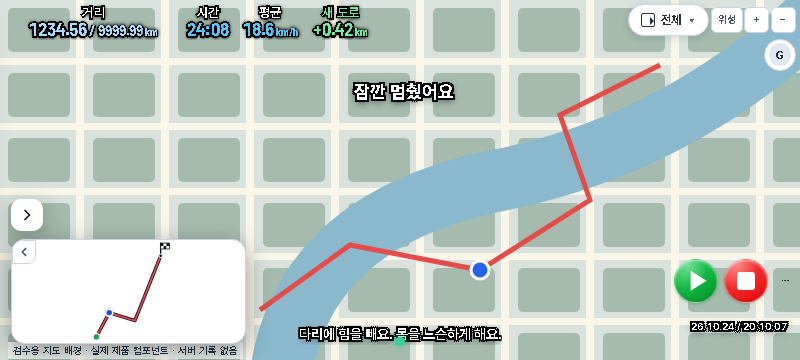
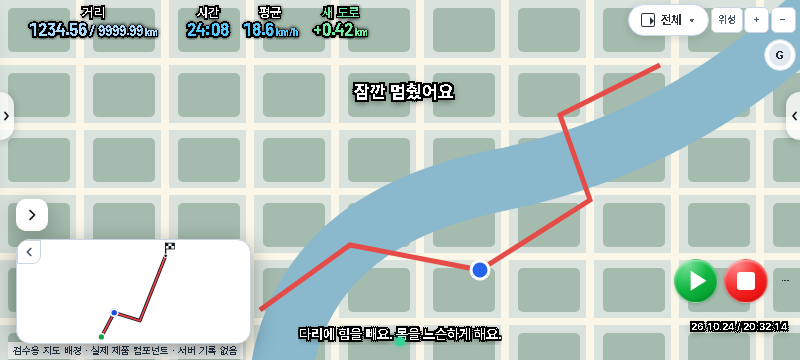
feat(ui): show white translucent edge tabs for the side menus
Chief: the edge-swipe menus were invisible. Left (menu) and right (map
view) now have a 14x48 white translucent half-round tab below the HUD
metrics; tap or drag from it opens the panel, edge swipe still works.
The bottom-left stack moves to 16px so the tab never overlaps it.

diff --git a/apps/web/e2e/ui-800x360.spec.ts b/apps/web/e2e/ui-800x360.spec.ts
@@ -214,6 +214,57 @@ test('좌우 에지 띠는 20px·화면0에 붙고 안쪽 드래그로만 열린
   }
 });
 
+// Chief 고정14(2026-10-24): 측면 메뉴는 보이는 흰 반투명 반원 탭으로 연다 — 누르거나 탭에서 끌어서.
+test('Chief 고정14 — 좌우 흰 반투명 반원 탭: 계기판 아래 빈 자리, 누르면·끌면 열린다',async({page})=>{
+  for(const size of [{width:800,height:360},{width:667,height:300},{width:844,height:390}]){
+    await page.setViewportSize(size);
+    for(const [state,expand] of [['ready',false],['riding',true],['paused',true]] as const){
+      await page.goto(`${preview}?state=${state}&waypoints=3&long`);
+      if(expand) await page.getByRole('button',{name:'경로 패널 펼치기'}).click();
+      const g=await page.evaluate(()=>{
+        const boxes=(sel:string)=>[...document.querySelectorAll(sel)].map(e=>e.getBoundingClientRect()).filter(r=>r.width>0&&r.height>0);
+        const tabs=['left','right'].map(side=>{
+          const tab=document.querySelector(`.edge-panel-tab--${side}`)!;
+          const knob=tab.querySelector('.edge-panel-tab__knob')!;
+          const t=tab.getBoundingClientRect(),k=knob.getBoundingClientRect();
+          const hit=document.elementFromPoint(k.x+k.width/2,k.y+k.height/2);
+          return {side,t:t.toJSON(),k:k.toJSON(),bg:getComputedStyle(knob).backgroundColor,hitOk:Boolean(hit?.closest(`.edge-panel-tab--${side}`))};
+        });
+        const others=boxes('.map-hud__tl,.route-dock__card,.route-minimap,.map-hud__tr,.ride-control-bar,.hud-ride-map-controls,.camera-view-menu__trigger,.hud-account').map(r=>r.toJSON());
+        return {tabs,others,vw:innerWidth,vh:innerHeight};
+      });
+      for(const tab of g.tabs){
+        const label=`${size.width}×${size.height} ${state} ${tab.side}`;
+        expect(tab.k.width,label).toBeCloseTo(14,0);
+        expect(tab.k.height,label).toBeCloseTo(48,0);
+        expect(tab.t.width*tab.t.height,label).toBeGreaterThanOrEqual(28*64-1);
+        expect(tab.bg,label).toBe('rgba(255, 255, 255, 0.78)');
+        expect(tab.hitOk,label).toBe(true);
+        if(tab.side==='left') expect(tab.k.x,label).toBeLessThanOrEqual(0.5);
+        else expect(tab.k.x+tab.k.width,label).toBeGreaterThanOrEqual(g.vw-0.5);
+        for(const o of g.others){
+          const overlap=tab.k.x<o.right&&tab.k.right>o.left&&tab.k.y<o.bottom&&tab.k.bottom>o.top;
+          expect(overlap,`${label} 탭이 다른 조작부·카드와 겹치지 않는다`).toBe(false);
+        }
+      }
+    }
+  }
+  await page.setViewportSize({width:800,height:360});
+  for(const side of ['left','right'] as const){
+    const dialog=page.getByRole('dialog',{name:side==='left'?'메뉴':'맵 뷰',exact:true});
+    await page.goto(`${preview}?state=ready`);
+    await page.getByRole('button',{name:side==='left'?'메뉴 열기':'맵 뷰 열기',exact:true}).click();
+    await expect(dialog,`${side} 누르면 열림`).toBeVisible();
+    await page.goto(`${preview}?state=ready`);
+    const k=(await page.locator(`.edge-panel-tab--${side} .edge-panel-tab__knob`).boundingBox())!;
+    const x=k.x+k.width/2,y=k.y+k.height/2,dir=side==='left'?1:-1;
+    await page.mouse.move(x,y);await page.mouse.down();
+    await page.mouse.move(x+dir*120,y,{steps:10});await page.mouse.up();
+    await expect(dialog,`${side} 탭에서 끌면 열림`).toBeVisible();
+    await expect(page.locator(`.edge-panel-tab--${side}`),'열리면 그 쪽 탭은 사라진다').toHaveCount(0);
+  }
+});
+
 test('포커스 대안·짧은/반대 드래그 취소가 동작한다',async({page})=>{
   await page.goto(`${preview}?state=ready`);
   await page.getByRole('button',{name:'맵 뷰 설정',exact:true}).focus();

diff --git a/apps/web/src/components/ui/EdgePanelHandle.css b/apps/web/src/components/ui/EdgePanelHandle.css
@@ -24,6 +24,56 @@
   left: auto;
 }
 
+/*
+ * 보이는 탭 — 2026-10-24 Chief 「반원 탭, 흰 반투명」. 위성·줌 버튼과 같은 흰색 계열.
+ * 보이는 반원 14×48px, 누르는 영역 28×64px(바깥은 투명). 자리는 계기판 바로 아래
+ * (위에서 84px) — 대기·주행 모두 왼쪽 아래 주소 카드·미니맵과 오른쪽 위 조작부 사이의 빈 곳.
+ * z-index 5(HUD 와 같은 층) — 메뉴(50)·맵 뷰(54)·모달 아래.
+ */
+.edge-panel-tab {
+  position: fixed;
+  z-index: 5;
+  top: calc(env(safe-area-inset-top, 0px) + 84px);
+  width: 28px;
+  height: 64px;
+  padding: 0;
+  margin: 0;
+  border: 0;
+  background: transparent;
+  display: flex;
+  align-items: center;
+  cursor: pointer;
+  touch-action: none;
+  -webkit-tap-highlight-color: transparent;
+}
+.edge-panel-tab--left {
+  left: env(safe-area-inset-left, 0px);
+  justify-content: flex-start;
+}
+.edge-panel-tab--right {
+  right: env(safe-area-inset-right, 0px);
+  justify-content: flex-end;
+}
+.edge-panel-tab__knob {
+  width: 14px;
+  height: 48px;
+  box-sizing: border-box;
+  display: inline-flex;
+  align-items: center;
+  justify-content: center;
+  background: rgba(255, 255, 255, 0.78);
+  color: #121417;
+  box-shadow: 0 2px 8px rgba(0, 0, 0, 0.22);
+}
+.edge-panel-tab--left .edge-panel-tab__knob { border-radius: 0 24px 24px 0; padding-right: 2px; }
+.edge-panel-tab--right .edge-panel-tab__knob { border-radius: 24px 0 0 24px; padding-left: 2px; }
+.edge-panel-tab:active .edge-panel-tab__knob { background: rgba(255, 255, 255, 0.95); }
+@media (hover: hover) {
+  .edge-panel-tab:hover .edge-panel-tab__knob { background: rgba(255, 255, 255, 0.92); }
+}
+.edge-panel-tab:focus-visible { outline: none; }
+.edge-panel-tab:focus-visible .edge-panel-tab__knob { outline: 2px solid #2457d6; outline-offset: 1px; }
+
 @media (prefers-reduced-motion: reduce) {
   .edge-panel-handle {
     transition: none;

diff --git a/apps/web/src/components/ui/EdgePanelHandle.tsx b/apps/web/src/components/ui/EdgePanelHandle.tsx
@@ -15,8 +15,9 @@ export type EdgePanelHandleProps = {
 };
 
 /**
- * 비노출 에지 제스처 — document capture 로 시작 좌표만 판별한다.
- * pointer-events 레이어는 두지 않아 Mapbox 컨트롤·중앙 지도를 가리지 않는다.
+ * 에지 제스처 — document capture 로 시작 좌표만 판별한다(띠 표식은 hit-test 없음).
+ * 2026-10-24 Chief: 보이지 않으니 불편하다 → 계기판 바로 아래에 흰 반투명 반원 탭을 둔다.
+ * 탭을 누르면 열리고, 탭에서 시작해 끌어도 지금처럼 손가락을 따라 열린다.
  */
 export function EdgePanelHandle(props: EdgePanelHandleProps) {
   const { edge, open, panelId, label, onOpen, onClose, onDragProgress } = props;
@@ -41,13 +42,29 @@ export function EdgePanelHandle(props: EdgePanelHandleProps) {
   if (open) return null;
 
   return (
-    <div
-      ref={markerRef}
-      className={`edge-panel-handle edge-panel-handle--${edge}`}
-      role="presentation"
-      aria-hidden="true"
-      data-edge-panel={panelId}
-      data-edge-gesture-label={label}
-    />
+    <>
+      <div
+        ref={markerRef}
+        className={`edge-panel-handle edge-panel-handle--${edge}`}
+        role="presentation"
+        aria-hidden="true"
+        data-edge-panel={panelId}
+        data-edge-gesture-label={label}
+      />
+      <button
+        type="button"
+        className={`edge-panel-tab edge-panel-tab--${edge}`}
+        aria-label={label}
+        aria-controls={panelId}
+        aria-expanded={false}
+        onClick={onOpen}
+      >
+        <span className="edge-panel-tab__knob" aria-hidden>
+          <svg width="7" height="10" viewBox="0 0 7 10" fill="none" stroke="currentColor" strokeWidth={1.7} strokeLinecap="round" strokeLinejoin="round">
+            <path d={edge === "left" ? "M2 1.5L5 5L2 8.5" : "M5 1.5L2 5L5 8.5"} />
+          </svg>
+        </span>
+      </button>
+    </>
   );
 }

diff --git a/apps/web/src/components/ui/edgePanelDocumentGesture.ts b/apps/web/src/components/ui/edgePanelDocumentGesture.ts
@@ -48,9 +48,17 @@ function inVerticalBand(clientY: number, marker: HTMLElement | null): boolean {
   return clientY >= r.top && clientY <= r.bottom;
 }
 
+/** 그 가장자리의 보이는 탭(28px) 위인가 — 띠(20px)보다 넓어도 탭에서 시작한 끌기는 받는다. */
+function onEdgeTab(edge: EdgeSide, clientX: number, clientY: number): boolean {
+  const hit = document.elementFromPoint(clientX, clientY);
+  return Boolean(hit?.closest(`.edge-panel-tab--${edge}`));
+}
+
 function shouldYieldAt(clientX: number, clientY: number): boolean {
   const hit = document.elementFromPoint(clientX, clientY);
   if (!hit) return true;
+  // 탭은 버튼이지만 끌기도 받는다 — 움직이지 않고 떼면 버튼 click 이 그대로 열어 준다.
+  if (hit.closest(".edge-panel-tab")) return false;
   return Boolean(hit.closest(YIELD_SELECTOR));
 }
 
@@ -177,7 +185,7 @@ function tryStartEdgeGesture(
   }
   if (e.pointerType === "mouse" && e.button !== 0) return false;
   if (!e.isPrimary) return false;
-  if (!inHorizontalBand(edge, e.clientX)) return false;
+  if (!inHorizontalBand(edge, e.clientX) && !onEdgeTab(edge, e.clientX, e.clientY)) return false;
   if (!inVerticalBand(e.clientY, marker)) return false;
   if (shouldYieldAt(e.clientX, e.clientY)) return false;
 

diff --git a/apps/web/src/features/map-overlays/MapBottomLeftStack.css b/apps/web/src/features/map-overlays/MapBottomLeftStack.css
@@ -8,7 +8,9 @@
 .map-bottom-left-stack {
   --map-bl-pad: clamp(0.45rem, 1.4vw, 0.85rem);
   position: absolute;
-  left: max(var(--map-bl-pad), env(safe-area-inset-left, 0px));
+  /* 16px: 왼쪽 가장자리 반원 탭(14px, 2026-10-24 Chief)이 주소 카드·미니맵 옆 틈에 들어가
+   * 카드 높이가 어떻든(경유 3개 펼침 등) 겹치지 않는다. */
+  left: max(var(--map-bl-pad), 16px, calc(env(safe-area-inset-left, 0px) + 16px));
   bottom: calc(
     max(var(--map-bl-pad), env(safe-area-inset-bottom, 0px)) + var(--mapbox-logo-clearance, 2.875rem)
   );

diff --git a/apps/web/src/components/route-dock/RouteDock.css b/apps/web/src/components/route-dock/RouteDock.css
@@ -3,7 +3,7 @@
 .route-dock-anchor {
   --route-dock-pad: clamp(.45rem, 1.4vw, .85rem);
   position: absolute;
-  left: max(8px, env(safe-area-inset-left, 0px));
+  left: max(16px, calc(env(safe-area-inset-left, 0px) + 16px)); /* 왼쪽 반원 탭 자리(MapBottomLeftStack 과 같음) */
   bottom: calc(max(var(--route-dock-pad), env(safe-area-inset-bottom, 0px)) + var(--mapbox-logo-clearance, 2.875rem));
   width: min(29.4vw, calc(100vw - 16px));
   z-index: 6;

diff --git a/apps/web/src/components/ride/OfficialCourseListModal.css b/apps/web/src/components/ride/OfficialCourseListModal.css
@@ -547,7 +547,7 @@
 }
 
 /* 경로 목록 뒤의 조작부가 검색·출처 버튼과 겹치지 않게 한다. 지도와 저작권은 유지한다. */
-body:has(.oc-modal--map) :is(.map-hud, .route-dock-anchor, .ride-control-bar, .map-bottom-left-stack, .edge-panel-handle) {
+body:has(.oc-modal--map) :is(.map-hud, .route-dock-anchor, .ride-control-bar, .map-bottom-left-stack, .edge-panel-handle, .edge-panel-tab) {
   visibility: hidden;
 }
 

diff --git a/document/ops/20261023-ui-redesign/48-result-edge-tab.md b/document/ops/20261023-ui-redesign/48-result-edge-tab.md
@@ -1,0 +1,38 @@
+# 지시·결과 48 — 측면 메뉴 흰 반투명 반원 탭
+
+2026-10-24 Chief 지시 · **시안·구현·감리 Claude Code(Supervisor 직접)** · 상태 LOCAL_VERIFIED
+
+> Chief: 「슬라이드 메뉴가 좌우 측면에서 안쪽으로 슬라이딩 터치를 할 때 나타나는데 이 메뉴가 보이지 않으니까 불편하다. … 반투명 반원의 형태를 고정해서 보여줄까?」 → Supervisor 권고(보이는 진입점 + 끌기 지름길) → 「반원 탭으로 가자. 시안 먼저」 → 시안 A(어두운)/B(흰) 중 **「흰 반투명」**.
+>
+> 시안: https://claude.ai/artifact/Gx3hf9Tbdm25EpiT4SQXZH (비공개). 10-21 결정 「흰색 에지 핸들 제거·비노출 가장자리 드래그」를 일부 바꾼다 → 결정 로그에 한 줄.
+
+## 바꾼 것
+
+| 파일 | 내용 |
+|---|---|
+| `apps/web/src/components/ui/EdgePanelHandle.tsx` | 기존 비노출 띠 표식 옆에 보이는 `<button class="edge-panel-tab">`(이름 「메뉴 열기」·「맵 뷰 열기」, `aria-controls`). 누르면 `onOpen`. 판이 열리면(`open`) 표식·탭 모두 사라짐 |
+| `apps/web/src/components/ui/EdgePanelHandle.css` | 탭: 누르는 영역 28×64px, 보이는 반원 14×48px `rgba(255,255,255,0.78)`·그림자·짙은 › ‹, 위에서 84px, z-index 5(HUD 층, 메뉴 50·맵 뷰 54 아래). hover 는 `@media (hover: hover)` 안 |
+| `apps/web/src/components/ui/edgePanelDocumentGesture.ts` | 탭 위에서 시작한 끌기도 받음 — 탭은 양보(yield) 대상에서 빼고, 탭이 띠(20px)보다 넓은 부분에서도 시작 허용. 움직이지 않고 떼면 버튼 click 이 열어 준다 |
+| `apps/web/src/features/map-overlays/MapBottomLeftStack.css`, `apps/web/src/components/route-dock/RouteDock.css` | 왼쪽 아래 카드 묶음(주소 카드·미니맵) 왼쪽 여백 약 9~11px → **16px**. 경유 3개를 펼친 주행 화면에서는 주소 카드 위끝이 탭 높이(84~132px)까지 올라와(800×360 101px, 667×300 60px) 겹쳤다 — 탭이 카드 옆 틈에 들어가게 해 카드 높이와 무관하게 겹치지 않음 |
+| `apps/web/src/components/ride/OfficialCourseListModal.css` | 경로 목록 모달 때 조작부 숨김 목록에 탭 추가 |
+| `apps/web/e2e/ui-800x360.spec.ts` | 잠금 시험 「Chief 고정14」: 800×360·667×300·844×390 × 대기·주행(경유 3·펼침)·일시정지에서 좌우 탭 반원 14×48·누르는 영역 ≥28×64·흰 0.78·가장자리에 붙음·중심을 누르면 탭, 계기판·주소 카드·미니맵·오른쪽 조작부·주행바와 겹치지 않음. 누르면 열림, 탭에서 끌면 열림, 열리면 그 탭 사라짐 |
+| `document/reference/product/261024-RTW-Chief-지정-디자인-고정.md` | 14번 추가 |
+| `document/260707-RTW-결정-로그.md` | 한 줄 추가 |
+
+기존 시험(「좌우 에지 띠는 20px·화면0에 붙고 안쪽 드래그로만 열린다」, 「짧은/반대 드래그 취소」, 「중앙 지도는 가리지 않는다」)은 그대로 통과 — 띠 가운데 높이(155px)에서는 지금처럼 끌어야만 열린다.
+
+## 검증 (실행 폴더 `C:\20.HDev\boxcycle\apps\web`)
+
+| 명령 | 결과 |
+|---|---|
+| `npx tsc -b --noEmit` | PASS |
+| 변경 파일 `npx eslint` | 오류 0 |
+| 프리뷰 5020 → `npx playwright test ui-800x360 -g "고정14\|에지\|드래그"` | 4/4 PASS |
+| 프리뷰 5020 → `npx playwright test ui-800x360 address-minimap-width ui-redesign-batch1.spec.ts ui-redesign-batch2.spec.ts --workers=1 --retries=0` | 31/31 PASS (`evidence/edge-tab/ui.log`) |
+| 에뮬레이터 실앱 5017 → `test ride-entry route-dock-riding-content ui-edge-live --workers=1 --retries=0` | ride-entry 7 + route-dock 1 = **8 PASS**, `ui-edge-live` **1 FAIL** (`evidence/edge-tab/live.log`, `live-edge.log`) |
+
+**`ui-edge-live` 실패 — 오래된 시험(10-21)의 기대값, 이번 변경 전부터 실패 상태로 판단:** 실제 지도에서 왼쪽 가장자리 끌기로 메뉴 열기·입문 경로 고르기까지는 통과했고, 그 뒤 「대기 주소 카드 폭 ≤220px」(76줄)에서 실패(235px). 이 기대값은 오늘 이전에도 맞지 않았다(10-24 오전 운영·HEAD 대기 카드 250px). 같은 시험의 다음 단언 「주행바 높이 ≤36」(81줄)도 고정 목록 1번(녹색 원형 44px)과 어긋나고, 이어지는 흐름(주행 시작 직후 「경로 패널 접기」)은 고정 목록 11번(주행 시작 시 접힘)과 어긋난다. 고정 목록에 맞춰 이 시험을 다시 쓰는 일은 별도 작업으로 남긴다(이번에 고치지 않음).
+
+## 캡처 `C:\20.HDev\boxcycle\document\ops\20261023-ui-redesign\evidence\edge-tab\`
+
+`ready-800x360.png`, `left-tab-zoom.png`, `right-tab-zoom.png`, `riding-wp3-expanded-800x360.png`, `riding-wp3-expanded-667x300.png`, `paused-800x360.png`, `ui.log`, `live.log`, `live-edge.log`

diff --git a/document/ops/HANDOFF.md b/document/ops/HANDOFF.md
@@ -5,7 +5,7 @@
 | 담당 | **Claude Code (2026-10-24 13:2x KST 인수, Codex→Claude Code)** |
 | 갱신 | 2026-10-24 16:1x KST — 지시44(주소 카드 ⇅·센서 버튼 제안 A, Supervisor 직접 구현) LOCAL_VERIFIED·커밋. 이전: 2026-10-24 15:0x KST — 지시39·41(주행 시작 주소창 접힘 › 버튼)·42(지도 탭 `reading 'x'` 오류) LOCAL_VERIFIED, 커밋·푸시 후 `tmp/deploy35` 재빌드. **호스팅 배포는 자동 권한 검사가 막아 Chief 실행 대기** |
 | 브랜치 | `main2` |
-| HEAD / 원격 | `4cde7ae0` (= origin/main2) |
+| HEAD / 원격 | `356fce0d` (= origin/main2) |
 | 마지막 배포 | 10-24 10:13 KST Hosting `3c3ba02c` 빌드 `index-BDb2hU8r.js`·`index-Dx13Hjt3.css`. 운영 자산5개 SHA256 일치. 함수·Rules 변경 없음 |
 
 ## 먼저 읽을 것
@@ -25,11 +25,12 @@
 
 ## 다음 한 걸음
 
-0. **지시35 커밋·푸시 완료, 배포 대기.** 묶음3 미커밋을 피하려고 커밋 상태를 `tmp/deploy35`(gitignore)에 복제해 빌드 — **10-24 18시 `4cde7ae0` 로 재빌드**(`index-COXGDagv.js`·`index-uvhmBw4G.css`, 지시35·39·41·42·44·45·46 포함, 묶음3 제외). 배포 명령은 Chief 실행: `cd C:\20.HDev\boxcycle\tmp\deploy35` → `npx firebase deploy --only hosting`. 배포 후 운영 번들 해시 대조, `tmp/deploy35` 삭제.
+0. **지시35 커밋·푸시 완료, 배포 대기.** 묶음3 미커밋을 피하려고 커밋 상태를 `tmp/deploy35`(gitignore)에 복제해 빌드 — **10-24 19시 `356fce0d` 로 재빌드**(`index-Bxu3PkRd.js`·`index-ChOGXwjk.css`, 지시35·39·41·42·44~47 포함, 묶음3 제외). 배포 명령은 Chief 실행: `cd C:\20.HDev\boxcycle\tmp\deploy35` → `npx firebase deploy --only hosting`. 배포 후 운영 번들 해시 대조, `tmp/deploy35` 삭제.
+0-00000. **지시48(측면 메뉴 흰 반원 탭) 완료** — [결과48](20261023-ui-redesign/48-result-edge-tab.md). 남은 일: `e2e/ui-edge-live.spec.ts` 를 고정 목록 1·11·12에 맞게 다시 쓰기(10-21 기대값이라 실패).
 0-0000. **지시47(기호 S·1·2·3·E, Start·End) 완료** — [결과47](20261023-ui-redesign/47-result-dock-badges-start-end.md). 무관 FAIL 2(`distance-direction-attention` 29줄, `route-ride-controls` idle 주소 카드) 묶음3 감리 때 확인.
 0-000. **지시46(대기 카드 센서·접기 맨 위 줄·폭=주행 중·주행 경유 들여쓰기) 완료** — [결과46](20261023-ui-redesign/46-result-dock-head-row.md). 보고 때 작업 agent 명시(Chief 10-24).
 0-00. **지시45(⇅ 목록 앞쪽) 완료** — [결과45](20261023-ui-redesign/45-result-dock-swap-front.md). 실행자: OpenCode 소진 → Cursor(Chief 10-24). Grok Bot 은 데스크톱 앱(CLI 없음)이라 못 씀.
-0-0. **지시44 완료** — [결과44](20261023-ui-redesign/44-result-dock-buttons-proposal-a.md). Chief 질문 대기: 측면 메뉴(왼쪽 MENU·오른쪽 맵 뷰)가 보이지 않는 가장자리 드래그뿐이라 불편 → Chief 「반원 탭으로 가자, 시안 먼저」 → 시안 https://claude.ai/artifact/Gx3hf9Tbdm25EpiT4SQXZH (A 어두운 반투명 추천 / B 흰 반투명, 14×48 보이는 탭·28×64 누르는 영역·위에서 84px). Chief 선택 후 Supervisor 직접 구현(10-21 「비노출 드래그」 결정 일부 변경 → 결정 로그·고정 목록 13).
+0-0. **지시44 완료** — [결과44](20261023-ui-redesign/44-result-dock-buttons-proposal-a.md). Chief 질문 대기: 측면 메뉴(왼쪽 MENU·오른쪽 맵 뷰)가 보이지 않는 가장자리 드래그뿐이라 불편 → Chief 「반원 탭으로 가자, 시안 먼저」 → **「흰 반투명」 확정·구현(결과48)** ← 시안 https://claude.ai/artifact/Gx3hf9Tbdm25EpiT4SQXZH (A 어두운 반투명 추천 / B 흰 반투명, 14×48 보이는 탭·28×64 누르는 영역·위에서 84px). Chief 선택 후 Supervisor 직접 구현(10-21 「비노출 드래그」 결정 일부 변경 → 결정 로그·고정 목록 13).
 0-1. **지시39 로컬 완료** — [결과40](20261023-ui-redesign/40-result-riding-address-dock-collapse.md). 다음: Nemotron 독립 감리 → Supervisor `npm run test:e2e:route-dock`(에뮬) → Chief 화면·커밋·배포 판단.
 
 1. 지시24·26 **완료**: 커밋·푸시·Hosting 배포·운영5자산 SHA256 대조 PASS. Chief 10-24 「카드 삭제하면 푸시 배포도 다시」 승인으로 수행.

diff --git a/document/reference/product/261024-RTW-Chief-지정-디자인-고정.md b/document/reference/product/261024-RTW-Chief-지정-디자인-고정.md
@@ -29,6 +29,7 @@
 | 11 | 2026-10-24 | 주행·일시정지 중 출발·도착 주소창 | **숨기지 않고 접는다.** 주행을 시작하면 주소 카드가 **접힌 상태**(› 펼치기 버튼만 보임)가 되고, 누르면 미니맵 바로 위에 펼친 미니맵과 좌우 끝이 같은 흰 카드로 펼쳐진다. 주행 중엔 ✕·⇅ 없음(잠금). 대기 화면 카드는 펼침·**폭 = 주행 중 펼친 카드(미니맵)와 같은 29.4vw**(10-24 Chief, 종전 250px 대체). 경유 줄은 대기·주행 모두 들여 씀 | Chief 10-22(미니맵 폭 맞춤)·10-24 「주행 중 주소창이 안 보인다」「숨기는 게 아니라 접는다로 해야 한다」, [지시35](../../ops/20261023-ui-redesign/35-task-riding-address-dock.md)·[지시39](../../ops/20261023-ui-redesign/39-task-riding-address-dock-collapse.md) | `e2e/ui-800x360.spec.ts` 「Chief 고정 — 목록 11」, `e2e/address-minimap-width.spec.ts`, `e2e/route-dock-riding-content.spec.ts` |
 | 12 | 2026-10-24 | 주소 카드 안 버튼(⇅·센서·✕·‹›) | **시안 04 그대로(제안 A).** ⇅ = 회색 원(`#f2f3f5`) 안 위·아래 화살표 선 아이콘, **자리는 주소 목록 앞쪽 — 점 열 위·목록 세로 가운데(출발·도착 점 사이), 보이는 원 20px, 경유 줄은 들여 씀**(10-24 Chief 스케치, [결과45](../../ops/20261023-ui-redesign/45-result-dock-swap-front.md)). 센서 = 흰 알약 30px·1px `#c9d6ee` 테두리·7px 점·12px 굵은 글자(연결 시 초록 점, 안내는 accent 파랑 깜빡임). ✕ ‹ › = 선 1.7 아이콘, 글자 기호 금지. **대기 화면: 센서(왼쪽)·접기(오른쪽)가 카드 맨 위 한 줄, 접으면 그 한 줄만 남음. 주소 ✕ 는 오른쪽 끝**(10-24 Chief, [결과46](../../ops/20261023-ui-redesign/46-result-dock-head-row.md)) | Chief 10-24 「디자인 컨셉과 동떨어진 스타일」→ 시안 비교 후 「제안 A 대로」, [결과44](../../ops/20261023-ui-redesign/44-result-dock-buttons-proposal-a.md) | `e2e/ui-800x360.spec.ts` 「Chief 고정12」 |
 | 13 | 2026-10-24 | 경로 지점 이름·기호(주소 카드·지점 팝업) | **영어로 통일, 지도 핀과 같은 기호.** 주소 카드 줄 = 기호 + 주소(「출발·경유·도착」 이름표 없음). 기호 = 16px 원 S(초록 `#16a34a`) · 1 2 3(주황) · E(빨강 `#dc2626`), 지도 핀과 같은 색·글자. ⇅ 는 기호 열 위·S·E 사이(보이는 원 14px), 줄 30px. 지점 팝업 버튼 「Start · +WP · End」, 탭 「Start·End」(화면 읽기 이름은 한국어) | Chief 10-24 「출발·도착 대신 Start·End, 영어로 통일」「기호들을 통일되게」→ 시안 비교 후 「A」, [결과47](../../ops/20261023-ui-redesign/47-result-dock-badges-start-end.md) | `e2e/ui-800x360.spec.ts` 「Chief 고정12 — ⇅ …기호…」, `e2e/route-media-controls.spec.ts` |
+| 14 | 2026-10-24 | 측면 메뉴 진입(왼쪽 MENU·오른쪽 맵 뷰) | **좌우 가장자리 흰 반투명 반원 탭.** 보이는 반원 14×48px(`rgba(255,255,255,0.78)`·짙은 › ‹), 누르는 영역 28×64px, 계기판 바로 아래(위에서 84px). 누르면 열림, 탭이나 가장자리에서 끌면 손가락 따라 열림, 판이 열리면 그 탭은 숨김. 왼쪽 아래 카드 묶음은 탭 자리만큼 16px 띄움 | Chief 10-24 「메뉴가 보이지 않으니 불편」→ 반원 탭 시안 → 「흰 반투명」, [결과48](../../ops/20261023-ui-redesign/48-result-edge-tab.md) | `e2e/ui-800x360.spec.ts` 「Chief 고정14」 |
 
 ## UI·UX 개선 목적 — 2026-10-24 Chief
 

diff --git a/document/260707-RTW-결정-로그.md b/document/260707-RTW-결정-로그.md
@@ -14,6 +14,7 @@
 
 | 날짜 | 태그 | 결정 | 이유 (한 줄) | 근거·상세 |
 |---|---|---|---|---|
+| 2026-10-24 | `[UI]` `[Map]` | 측면 메뉴(왼쪽 MENU·오른쪽 맵 뷰)에 계기판 아래 흰 반투명 반원 탭(14×48, 누르는 영역 28×64)을 둔다. 누르거나 탭에서 끌면 열림, 가장자리 끌기 유지. 10-21 「비노출 가장자리 드래그」 일부 변경 | Chief: 메뉴가 보이지 않아 불편, 일반 방식은 보이는 진입점 + 끌기 지름길. 시안 A/B 중 B(흰 반투명) | [결과48](ops/20261023-ui-redesign/48-result-edge-tab.md) |
 | 2026-10-24 | `[UI]` `[Product]` | 주행 기록은 계정 패널 안 현재 인라인 스타일로 확정. panel 비교용 연결 제거. 후속 UI 작업은 낮은 품질의 UI·UX 개선을 목표로 진행 | Chief 비교 후 명시 결정. 기존 기록별 행동과 계정 맥락 보존 | [지시26](ops/20261023-ui-redesign/26-task-inline-history-finalize.md) |
 | 2026-10-24 | `[UI]` `[Docs]` | Chief 가 직접 지시한 화면은 [고정 목록](reference/product/261024-RTW-Chief-지정-디자인-고정.md)에 올리고 시안·규칙·수퍼바이저 판단보다 우선. 주행 시작 녹색 원형 아이콘·일시정지 아이콘 버튼·주행 중 지도 조작 유지·순위 칩 원형 아이콘으로 되돌림 | Chief: 수퍼바이저가 내 지시 디자인을 임의로 다시 바꾸지 않게 | [지시 21](ops/20261023-ui-redesign/21-task-chief-revert-controls.md) |
 | 2026-10-23 | `[UI]` `[Route]` | 입문·퍼블릭·내 경로 목록은 불투명 흰 박스로 표시. 주행 중 라이더 순위 목록의 투명 배경은 유지 | Chief: 경로 목록은 정지 상태에서 읽으므로 지도 노출보다 가독성 우선 | [지시](ops/20261023-ui-redesign/15-task-route-list-surface.md) |

diff --git a/document/ops/PROGRESS.md b/document/ops/PROGRESS.md
@@ -1,3 +1,4 @@
+2026-10-24 20:xx KST [측면 메뉴 흰 반원 탭](20261023-ui-redesign/48-result-edge-tab.md): Chief 「흰 반투명」. 시안·구현·감리 Claude Code 직접. 좌우 탭 14×48·누르는 영역 28×64·위 84px, 누르거나 끌면 열림. 왼쪽 아래 묶음 16px 띄움. 화면31·실앱8 PASS, ui-edge-live 오래된 기대값 FAIL(별도). 고정 14·결정 로그.
 2026-10-24 19:xx KST [기호 S·1·2·3·E, Start·End](20261023-ui-redesign/47-result-dock-badges-start-end.md): Chief 지시 → 시안 비교 → 「A」. 시안·구현·감리 Claude Code 직접. 주소 카드 이름표 제거·지도 핀 기호, 팝업 Start·+WP·End. 화면30 PASS, 팝업 계열 13 PASS·2 FAIL(무관 판단, 묶음3 preview 영향 의심). 고정 목록 13.
 2026-10-24 18:xx KST [대기 카드 센서·접기 맨 위 줄](20261023-ui-redesign/46-result-dock-head-row.md): Chief 캡처 지시 → 구현·감리 Claude Code 직접. 센서·접기 한 줄, ✕ 오른쪽 끝, 대기 폭 = 주행 중(29.4vw), 주행 중 경유 들여쓰기. 목록 11 폭 기대값 Chief 지시로 변경, 잠금 시험 추가.
 2026-10-24 17:xx KST [⇅ 목록 앞쪽](20261023-ui-redesign/45-result-dock-swap-front.md): Chief 스케치 → Claude Code 직접. ⇅ 점 열 위·목록 세로 가운데 20px 원, 경유 줄 들여쓰기, 잠금 시험 고정12 추가. 반원 탭 시안 Chief 선택 대기. OpenCode 소진 → 실행자는 Cursor(Grok Bot 은 CLI 없음).
